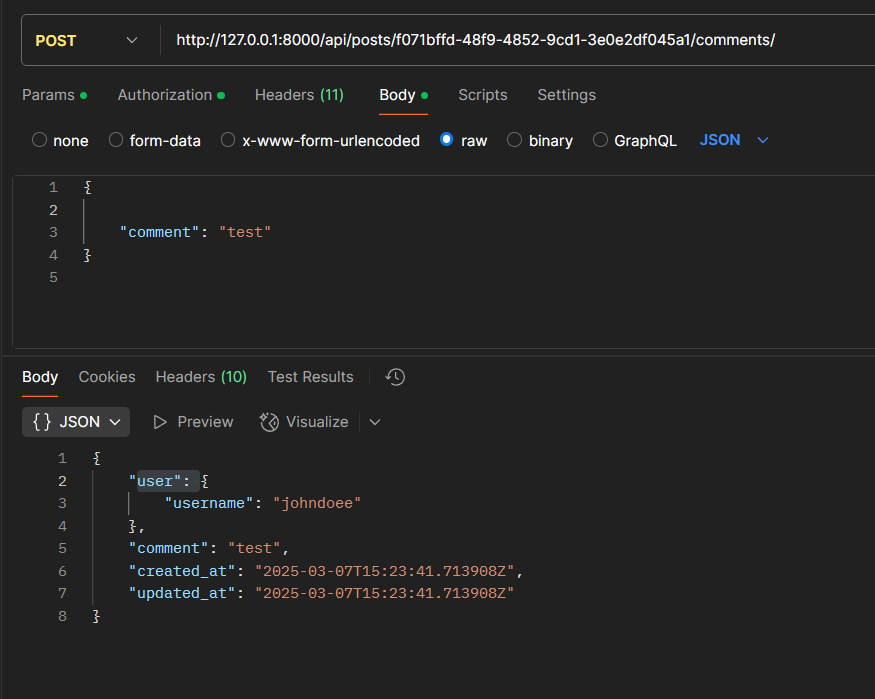
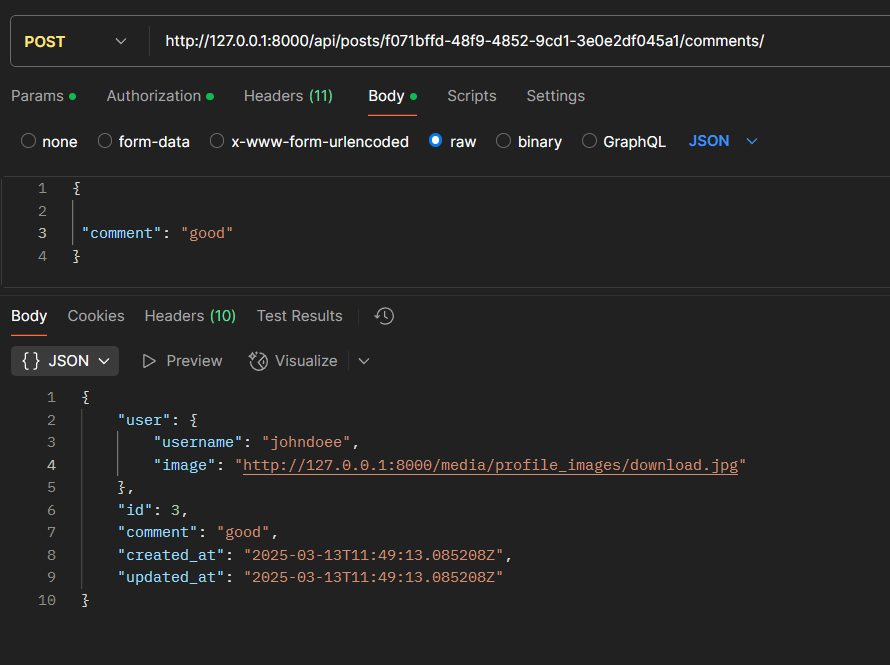
community images,update image

diff --git a/Backend/project/templates/index.html b/Backend/project/templates/index.html
@@ -754,6 +754,7 @@ Content-Type: application/json
         "id": "f071bffd-48f9-4852-9cd1-3e0e2df045a1",
         "user": {
             "username": "test1"
+            "image": "http://127.0.0.1:8000/media/profile_images/default.jpg"
         },
         "content": "This is the content of my post.",
         "image": "https://via.placeholder.com/150",
@@ -777,6 +778,7 @@ Content-Type: application/json
         "id": "f071bffd-48f9-4852-9cd1-3e0e2df045a1",
         "user": {
             "username": "johndoee"
+            "image": "http://127.0.0.1:8000/media/profile_images/default.jpg"
         },
         "content": "This is the content of my post.",
         "image": "https://via.placeholder.com/150",
@@ -784,6 +786,7 @@ Content-Type: application/json
             {
                 "user": {
                     "username": "johndoee"
+                    "image": "http://127.0.0.1:8000/media/profile_images/default.jpg"
                 },
                 "comment": "test",
                 "created_at": "2025-03-07T15:23:41.713908Z",
@@ -817,6 +820,7 @@ Content-Type: application/json
         "id": "f071bffd-48f9-4852-9cd1-3e0e2df045a1",
         "user": {
             "username": "johndoee"
+            "image": "http://127.0.0.1:8000/media/profile_images/default.jpg"
         },
         "content": "This is the content of my post.",
         "image": "https://via.placeholder.com/150",
@@ -845,6 +849,7 @@ Content-Type: application/json
     {
         "user": {
             "username": "johndoee"
+            "image": "http://127.0.0.1:8000/media/profile_images/default.jpg"
         },
         "comment": "test",
         "created_at": "2025-03-07T15:23:41.713908Z",
@@ -871,6 +876,7 @@ Content-Type: application/json
     {
         "user": {
             "username": "johndoee"
+            "image": "http://127.0.0.1:8000/media/profile_images/default.jpg"
         },
         "id": 1,
         "comment": "edited",

diff --git a/Backend/project/community/serializers.py b/Backend/project/community/serializers.py
@@ -1,12 +1,14 @@
 from rest_framework import serializers
 from .models import Post, Comment
 from django.contrib.auth import get_user_model
+from account.models import UserProfile
 User = get_user_model() 
 
 class UserSerializer(serializers.ModelSerializer):
+    image = serializers.ImageField(source='userprofile.image', read_only=True)
     class Meta:
         model = get_user_model()
-        fields = ['username']
+        fields = ['username','image']
 
 class CommentSerializer(serializers.ModelSerializer):
     user = UserSerializer(read_only=True)  # Nested user details

diff --git a/Backend/project/project/settings.py b/Backend/project/project/settings.py
@@ -153,8 +153,8 @@ REST_FRAMEWORK = {
 
 # Password validation settings AUTHENTICATION
 SIMPLE_JWT = {
-    'ACCESS_TOKEN_LIFETIME': timedelta(hours=2),
-    'REFRESH_TOKEN_LIFETIME': timedelta(days=7),
+    'ACCESS_TOKEN_LIFETIME': timedelta(days=3),
+    'REFRESH_TOKEN_LIFETIME': timedelta(days=30),
     'BLACKLIST_AFTER_ROTATION': True,
     "AUTH_HEADER_TYPES": ('Bearer',),
     'AUTH_TOKEN_CLASSES': ('rest_framework_simplejwt.tokens.AccessToken',),

diff --git a/Backend/project/account/views.py b/Backend/project/account/views.py
@@ -196,7 +196,7 @@ class UpdateUserView(IsAuthenticatedWithJWT,UpdateAPIView):
         user.phone_number = data.get('phone_number', profile.phone_number)  # تأكد من تحديث رقم الهاتف
         
         if 'image' in request.FILES:
-            user.image = request.FILES['image']
+            profile.image = request.FILES['image']
 
         profile.save()  # تأكد من حفظ الملف الشخصي بعد التعديلات
 
